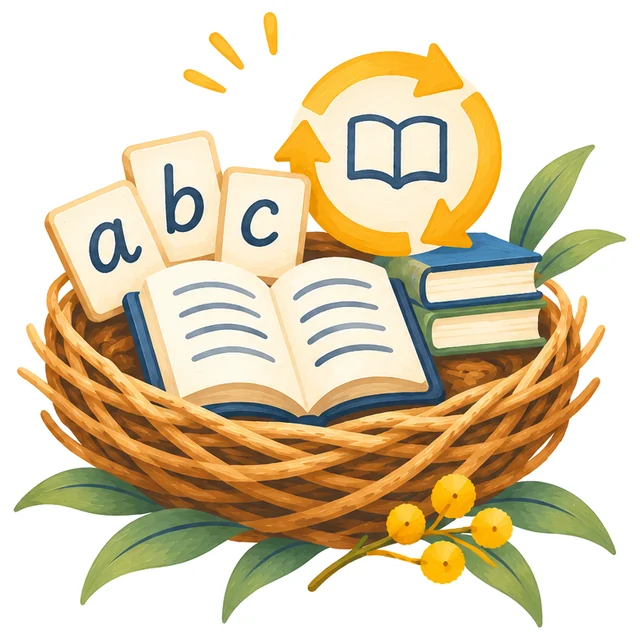
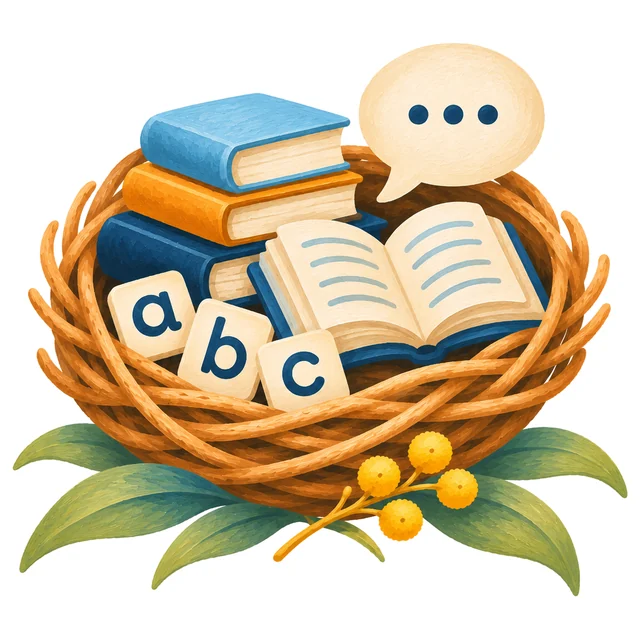
Add the Structured literacy and Numeracy nests
Claude-Session: https://claude.ai/code/session_01Rrumrk6oJAHgL39e83poFG

diff --git a/library.html b/library.html
@@ -70,7 +70,7 @@
 </nav>
 
 <main id="main-content" tabindex="-1">
-<section class="page-hero lib-hero"><div class="container page-hero-inner"><div class="page-hero-text lib-hero-text"><p class="hero-tagline">A curated collection, free for teachers and leaders</p><h1>The Knowledge Nest Library</h1><p class="page-hero-lead">Great professional learning resources are scattered all over the internet. This library gathers the best of other people's work in one place, sorted by topic, so you can spend your time learning instead of searching.</p><form class="lib-search" role="search" id="libSearch" action="library.html" method="get"><label for="q" class="sr-only">Search the library</label><input type="search" id="q" name="q" placeholder="Search by topic, practice or person, e.g. hinge questions" autocomplete="off"><button type="submit" class="btn btn-primary">Search</button></form><p class="page-hero-jump lib-popular"><span>Popular:</span><a href="library-explicit-instruction.html">Explicit instruction</a><a href="library-early-reading.html">Early reading</a><a href="library-writing.html">Writing</a><a href="library-instructional-coaching-and-professional-learning.html">Instructional coaching and professional learning</a><a href="library-implementation.html">Implementation</a><a href="library-checking-for-understanding-and-responsive-teaching.html">Checking for understanding and responsive teaching</a></p></div></div></section><section class="section lib-results-section" id="results" hidden><div class="container"><h2 id="resultsHeading" tabindex="-1">Search results</h2><p class="lib-results-note" id="resultsNote"></p><div id="resultsList"></div><p><button type="button" class="btn btn-primary btn-sm" id="clearSearch">Clear search</button></p></div></section><section class="section" id="types"><div class="container"><div class="section-header"><p class="kn-eyebrow">536 resources, all free</p><h2>Browse the library</h2><p>Know how you want to learn today? Pick a shelf.</p></div><div class="kn-tiles"><a href="library-watch.html" class="kn-tile kn-tile-watch kn-tile-pic"><span class="kn-tile-art"><img class="kn-tile-illo" src="assets/illo/watch.webp" alt="" width="240" height="240" loading="lazy" decoding="async"></span><span class="kn-tile-body"><span class="kn-tile-title">Watch</span><span class="kn-tile-text">Short classroom footage showing practice in action.</span><span class="kn-tile-cta">174 videos <span aria-hidden="true">&rarr;</span></span></span></a><a href="library-learn.html" class="kn-tile kn-tile-learn kn-tile-pic"><span class="kn-tile-art"><img class="kn-tile-illo" src="assets/illo/learn.webp" alt="" width="240" height="240" loading="lazy" decoding="async"></span><span class="kn-tile-body"><span class="kn-tile-title">Learn</span><span class="kn-tile-text">Webinars and longer sessions to sit down with, alone or as a staff.</span><span class="kn-tile-cta">6 sessions <span aria-hidden="true">&rarr;</span></span></span></a><a href="library-listen.html" class="kn-tile kn-tile-listen kn-tile-pic"><span class="kn-tile-art"><img class="kn-tile-illo" src="assets/illo/listen.webp" alt="" width="240" height="240" loading="lazy" decoding="async"></span><span class="kn-tile-body"><span class="kn-tile-title">Listen</span><span class="kn-tile-text">Must-listen shows, and episodes sorted by category.</span><span class="kn-tile-cta">177 episodes <span aria-hidden="true">&rarr;</span></span></span></a><a href="library-read.html" class="kn-tile kn-tile-read kn-tile-pic"><span class="kn-tile-art"><img class="kn-tile-illo" src="assets/illo/read.webp" alt="" width="240" height="240" loading="lazy" decoding="async"></span><span class="kn-tile-body"><span class="kn-tile-title">Read</span><span class="kn-tile-text">Short reads, practice guides and Substacks worth following.</span><span class="kn-tile-cta">76 articles and guides <span aria-hidden="true">&rarr;</span></span></span></a><a href="library-research.html" class="kn-tile kn-tile-research kn-tile-pic"><span class="kn-tile-art"><img class="kn-tile-illo" src="assets/illo/research.webp" alt="" width="240" height="240" loading="lazy" decoding="async"></span><span class="kn-tile-body"><span class="kn-tile-title">Research</span><span class="kn-tile-text">Foundational papers, reviews and meta-analyses.</span><span class="kn-tile-cta">50 papers and reviews <span aria-hidden="true">&rarr;</span></span></span></a><a href="library-voices.html" class="kn-tile kn-tile-voice kn-tile-pic"><span class="kn-tile-art"><img class="kn-tile-illo" src="assets/illo/voice.webp" alt="" width="240" height="240" loading="lazy" decoding="async"></span><span class="kn-tile-body"><span class="kn-tile-title">Voices</span><span class="kn-tile-text">The researchers, teachers and writers worth your time.</span><span class="kn-tile-cta">39 people to follow <span aria-hidden="true">&rarr;</span></span></span></a><a href="library-curriculum.html" class="kn-tile kn-tile-curriculum kn-tile-pic"><span class="kn-tile-art"><img class="kn-tile-illo" src="assets/illo/curriculum.webp" alt="" width="240" height="240" loading="lazy" decoding="async"></span><span class="kn-tile-body"><span class="kn-tile-title">Free curriculum</span><span class="kn-tile-text">Openly available lesson materials, scope and sequences.</span><span class="kn-tile-cta">14 collections <span aria-hidden="true">&rarr;</span></span></span></a><a href="library.html#areas" class="kn-tile kn-tile-areas kn-tile-pic"><span class="kn-tile-art"><img class="kn-tile-illo" src="assets/illo/areas.webp" alt="" width="240" height="240" loading="lazy" decoding="async"></span><span class="kn-tile-body"><span class="kn-tile-title">By area of practice</span><span class="kn-tile-text">Everything on one topic, from phonics to change management.</span><span class="kn-tile-cta">24 areas <span aria-hidden="true">&rarr;</span></span></span></a></div></div></section><section class="section section-tint" id="start"><div class="container"><div class="section-header section-header-illo"><img class="section-illo" src="assets/illo/start.webp" alt="" width="200" height="200" loading="lazy" decoding="async"><div><p class="kn-eyebrow">Not sure where to begin?</p><h2>Start here</h2><p>Five starting points for a school's professional learning journey.</p></div></div><div class="lib-starts"><article class="lib-start"><p class="lib-start-n" aria-hidden="true">01</p><h3>Change management and implementation</h3><p>Whatever you want to improve, the first questions are the same: where to start, which goals to set, and how to lead people through the change.</p><p class="lib-start-label">Three to begin with</p><ul><li><span class="lib-type lib-type-research">Research</span> <a href="https://educationendowmentfoundation.org.uk/tools/guidance-reports/a-schools-guide-to-implementation" target="_blank" rel="noopener">A School&#x27;s Guide to Implementation<span class="sr-only"> (opens in a new tab)</span></a></li><li><span class="lib-type lib-type-listen">Listen</span> <a href="https://www.ollielovell.com/jonathansharples/" target="_blank" rel="noopener">097 Implementation<span class="sr-only"> (opens in a new tab)</span></a></li><li><span class="lib-type lib-type-listen">Listen</span> <a href="https://www.ollielovell.com/errr/vivianerobinson/" target="_blank" rel="noopener">028 Reducing Change to Increase Improvement<span class="sr-only"> (opens in a new tab)</span></a></li></ul><p class="lib-start-label">See everything on</p><p class="lib-topics"><a href="library-implementation.html">Implementation</a><a href="library-change-management.html">Change management</a></p></article><article class="lib-start"><p class="lib-start-n" aria-hidden="true">02</p><h3>Explicit instruction</h3><p>What a well-built lesson looks like, from the first explanation to independent practice, with every student taking part.</p><p class="lib-start-label">Three to begin with</p><ul><li><span class="lib-type lib-type-read">Read</span> <a href="https://www.edresearch.edu.au/topics/explicit-instruction" target="_blank" rel="noopener">Explicit instruction: topic page<span class="sr-only"> (opens in a new tab)</span></a></li><li><span class="lib-type lib-type-listen">Listen</span> <a href="https://www.ollielovell.com/errr/anitaarcher-orig/" target="_blank" rel="noopener">060 Explicit Instruction<span class="sr-only"> (opens in a new tab)</span></a></li><li><span class="lib-type lib-type-watch">Watch</span> <a href="https://www.edresearch.edu.au/guides-resources/videos/teach-explicitly-primary-and-secondary" target="_blank" rel="noopener">Teach explicitly: Primary and secondary<span class="sr-only"> (opens in a new tab)</span></a></li></ul><p class="lib-start-label">See everything on</p><p class="lib-topics"><a href="library-explicit-instruction.html">Explicit instruction</a><a href="library-checking-for-understanding-and-responsive-teaching.html">Checking for understanding and responsive teaching</a><a href="library-participation-and-opportunities-to-respond.html">Participation and opportunities to respond</a></p></article><article class="lib-start"><p class="lib-start-n" aria-hidden="true">03</p><h3>Structured literacy</h3><p>Phonics and fluency, comprehension and vocabulary, spelling and writing, taught systematically from Foundation to Year 6.</p><p class="lib-start-label">Three to begin with</p><ul><li><span class="lib-type lib-type-watch">Watch</span> <a href="https://readinguniverse.org/article/explore-teaching-topics/word-recognition/phonics/how-to-teach-a-phonics-lesson" target="_blank" rel="noopener">How to Teach a Phonics Lesson (video series)<span class="sr-only"> (opens in a new tab)</span></a></li><li><span class="lib-type lib-type-listen">Listen</span> <a href="https://www.buzzsprout.com/1987785/episodes/18632830-s7-e2-the-top-5-ways-to-ensure-reading-success-in-years-3-to-6" target="_blank" rel="noopener">S7 E2 The Top 5 Ways to Ensure Reading Success in Years 3 to 6<span class="sr-only"> (opens in a new tab)</span></a></li><li><span class="lib-type lib-type-listen">Listen</span> <a href="https://www.ollielovell.com/errr/judithhochman/" target="_blank" rel="noopener">029 How to Teach Students to Write<span class="sr-only"> (opens in a new tab)</span></a></li></ul><p class="lib-start-label">See everything on</p><p class="lib-topics"><a href="library-early-reading.html">Early reading</a><a href="library-comprehension-vocabulary-and-text-study.html">Comprehension, vocabulary and text study</a><a href="library-spelling-morphology-and-handwriting.html">Spelling, morphology and handwriting</a><a href="library-writing.html">Writing</a></p></article><article class="lib-start"><p class="lib-start-n" aria-hidden="true">04</p><h3>Multi-tiered systems of support and inclusion</h3><p>How strong whole-class teaching, early screening and targeted intervention fit together so every student gets the right support.</p><p class="lib-start-label">Three to begin with</p><ul><li><span class="lib-type lib-type-watch">Watch</span> <a href="https://www.edresearch.edu.au/guides-resources/videos/leading-mtss" target="_blank" rel="noopener">Leading MTSS<span class="sr-only"> (opens in a new tab)</span></a></li><li><span class="lib-type lib-type-listen">Listen</span> <a href="https://knowledgeforteachers.podbean.com/e/6-common-mistakes-schools-make-when-implementing-mtss-with-dr-sarah-brown-and-dr-stephanie-stollar/" target="_blank" rel="noopener">S04E10 Six common mistakes implementing MTSS<span class="sr-only"> (opens in a new tab)</span></a></li><li><span class="lib-type lib-type-listen">Listen</span> <a href="https://www.buzzsprout.com/1987785/episodes/17122731-s5-e17-mtss-for-reading-with-stephanie-stollar" target="_blank" rel="noopener">S5 E17 MTSS for Reading<span class="sr-only"> (opens in a new tab)</span></a></li></ul><p class="lib-start-label">See everything on</p><p class="lib-topics"><a href="library-tiered-support-and-inclusion.html">Tiered support and inclusion</a></p></article><article class="lib-start"><p class="lib-start-n" aria-hidden="true">05</p><h3>Assessment and reporting</h3><p>Which assessments answer which questions, and how to use what they tell you without drowning in data.</p><p class="lib-start-label">Three to begin with</p><ul><li><span class="lib-type lib-type-listen">Listen</span> <a href="https://www.ollielovell.com/errr/daisychristodoulou/" target="_blank" rel="noopener">027 Assessment<span class="sr-only"> (opens in a new tab)</span></a></li><li><span class="lib-type lib-type-listen">Listen</span> <a href="https://knowledgeforteachers.podbean.com/e/s03e04-dr-matthew-burns-on-effective-assessment-using-data-to-drive-reading-maths-intervention/" target="_blank" rel="noopener">S03E04 Effective Assessment: Using Data to Drive Reading and Maths Intervention<span class="sr-only"> (opens in a new tab)</span></a></li><li><span class="lib-type lib-type-read">Read</span> <a href="https://www.aft.org/sites/default/files/ae_summer2018_barton.pdf" target="_blank" rel="noopener">On Formative Assessment in Math: How Diagnostic Questions Can Help<span class="sr-only"> (opens in a new tab)</span></a></li></ul><p class="lib-start-label">See everything on</p><p class="lib-topics"><a href="library-assessment-and-data.html">Assessment and data</a><a href="library-checking-for-understanding-and-responsive-teaching.html">Checking for understanding and responsive teaching</a></p></article></div></div></section><section class="section" id="areas"><div class="container"><div class="section-header"><h2>Browse by area</h2><p>Every area gathers videos, podcasts, reading and research in one place.</p></div><div class="lib-domains"><div class="lib-domain lib-domain-pic"><img class="lib-domain-illo" src="assets/illo/domain-how-learning-works.webp" alt="" width="200" height="200" loading="lazy" decoding="async"><h3>How learning works</h3><ul><li><a href="library-how-learning-happens.html">How learning happens</a> <span class="lib-count">37</span></li><li><a href="library-motivation-self-efficacy-and-metacognition.html">Motivation, self-efficacy and metacognition</a> <span class="lib-count">6</span></li></ul></div><div class="lib-domain lib-domain-pic"><img class="lib-domain-illo" src="assets/illo/domain-teaching-practice.webp" alt="" width="200" height="200" loading="lazy" decoding="async"><h3>Teaching practice</h3><ul><li><a href="library-explicit-instruction.html">Explicit instruction</a> <span class="lib-count">92</span></li><li><a href="library-retrieval-spacing-and-review.html">Retrieval, spacing and review</a> <span class="lib-count">30</span></li><li><a href="library-checking-for-understanding-and-responsive-teaching.html">Checking for understanding and responsive teaching</a> <span class="lib-count">51</span></li><li><a href="library-classroom-culture-routines-and-attention.html">Classroom culture, routines and attention</a> <span class="lib-count">55</span></li><li><a href="library-participation-and-opportunities-to-respond.html">Participation and opportunities to respond</a> <span class="lib-count">32</span></li><li><a href="library-feedback-and-practice.html">Feedback and practice</a> <span class="lib-count">19</span></li></ul></div><div class="lib-domain lib-domain-pic"><img class="lib-domain-illo" src="assets/illo/domain-structured-literacy.webp" alt="" width="200" height="200" loading="lazy" decoding="async"><h3>Structured literacy</h3><ul><li><a href="library-early-reading.html">Early reading: phonics and fluency</a> <span class="lib-count">45</span></li><li><a href="library-comprehension-vocabulary-and-text-study.html">Comprehension, vocabulary and text study</a> <span class="lib-count">45</span></li><li><a href="library-spelling-morphology-and-handwriting.html">Spelling, morphology and handwriting</a> <span class="lib-count">18</span></li><li><a href="library-writing.html">Writing</a> <span class="lib-count">52</span></li><li><a href="library-oral-language-and-oracy.html">Oral language and oracy</a> <span class="lib-count">12</span></li></ul></div><div class="lib-domain"><h3>Numeracy</h3><ul><li><a href="library-mathematics.html">Mathematics</a> <span class="lib-count">50</span></li></ul></div><div class="lib-domain"><h3>Knowledge-rich curriculum</h3><ul><li><a href="library-knowledge-rich-curriculum-and-coherence.html">Knowledge-rich curriculum and coherence</a> <span class="lib-count">22</span></li></ul></div><div class="lib-domain lib-domain-pic"><img class="lib-domain-illo" src="assets/illo/domain-mtss-and-assessment.webp" alt="" width="200" height="200" loading="lazy" decoding="async"><h3>MTSS and assessment</h3><ul><li><a href="library-assessment-and-data.html">Assessment and data</a> <span class="lib-count">10</span></li><li><a href="library-tiered-support-and-inclusion.html">Tiered support and inclusion</a> <span class="lib-count">19</span></li></ul></div><div class="lib-domain lib-domain-pic"><img class="lib-domain-illo" src="assets/illo/domain-coaching-and-professional-learning.webp" alt="" width="200" height="200" loading="lazy" decoding="async"><h3>Coaching and professional learning</h3><ul><li><a href="library-instructional-coaching-and-professional-learning.html">Instructional coaching and professional learning</a> <span class="lib-count">44</span></li></ul></div><div class="lib-domain lib-domain-pic"><img class="lib-domain-illo" src="assets/illo/domain-leadership-and-culture.webp" alt="" width="200" height="200" loading="lazy" decoding="async"><h3>Leadership and culture</h3><ul><li><a href="library-instructional-leadership.html">Instructional leadership</a> <span class="lib-count">28</span></li><li><a href="library-school-culture-trust-and-behaviour.html">School culture, trust and behaviour</a> <span class="lib-count">16</span></li><li><a href="library-teams-middle-leadership-and-professional-culture.html">Teams, middle leadership and professional culture</a> <span class="lib-count">3</span></li></ul></div><div class="lib-domain lib-domain-pic"><img class="lib-domain-illo" src="assets/illo/domain-implementation-and-change.webp" alt="" width="200" height="200" loading="lazy" decoding="async"><h3>Implementation and change</h3><ul><li><a href="library-implementation.html">Implementation</a> <span class="lib-count">30</span></li><li><a href="library-change-management.html">Change management</a> <span class="lib-count">6</span></li></ul></div><div class="lib-domain lib-domain-pic"><img class="lib-domain-illo" src="assets/illo/domain-research-and-evidence.webp" alt="" width="200" height="200" loading="lazy" decoding="async"><h3>Research and evidence</h3><ul><li><a href="library-evidence-myths-and-debates.html">Evidence, myths and debates</a> <span class="lib-count">23</span></li></ul></div></div></div></section><section class="section section-tint"><div class="container"><div class="lib-band"><div class="lib-band-text"><p class="lib-eyebrow">For Victorian schools</p><h2>Browse by the Victorian Teaching and Learning Model 2.0</h2><p>Podcast episodes matched to each element of learning and teaching, and to current Victorian priorities.</p><p><a href="library-vtlm.html" class="btn btn-accent">Open the VTLM 2.0 view</a></p></div><div class="lib-band-chips"><span>Attention, focus and regulation</span><span>Knowledge and memory</span><span>Retention and recall</span><span>Mastery and application</span><span>Planning</span><span>Enabling learning</span><span>Explicit teaching: overview</span><span>Explicit teaching: focus the learning</span><span>Explicit teaching: explicit explanation and modelling</span><span>Explicit teaching: scaffold practice</span><span>Explicit teaching: monitor progress</span><span>Supported application</span></div></div><p class="lib-own">Looking for Jo's own articles and downloadable guides? <a href="resources.html">Find them here</a>.</p></div></section><section class="section lib-about"><div class="container"><div class="lib-panels"><div class="lib-panel"><p class="lib-eyebrow">About this collection</p><h2>Other people's brilliant work, gathered in one place</h2><p>I'm Jo Griffin. I was spending a long time trawling the internet to find resources that support teachers' professional learning, and thought it might help others if they were all in one place, sorted into categories.</p><p>This is a collection, not my own work. Every resource belongs to the people who created it. Each entry names its creator and links straight to the original, and nothing is copied or hosted here.</p><p class="lib-small">Is your work listed here? If you would like it described differently or removed, just <a href="mailto:jo@knowledgenest.com.au?subject=Library%20listing">let me know</a>.</p></div><div class="lib-panel lib-panel-grow"><img class="lib-panel-illo" src="assets/illo/suggest.webp" alt="" width="220" height="220" loading="lazy" decoding="async"><p class="lib-eyebrow">Help it grow</p><h2>Know something that belongs here?</h2><p>This library is built by sharing. If there is a video, podcast, article or piece of research that has helped you or your team, send a quick email with the link and it can be added for everyone.</p><p><a href="mailto:jo@knowledgenest.com.au?subject=Library%20suggestion" class="btn btn-accent">Email a suggestion</a></p></div></div></div></section><script src="library/search.js?v=2" defer></script>
+<section class="page-hero lib-hero"><div class="container page-hero-inner"><div class="page-hero-text lib-hero-text"><p class="hero-tagline">A curated collection, free for teachers and leaders</p><h1>The Knowledge Nest Library</h1><p class="page-hero-lead">Great professional learning resources are scattered all over the internet. This library gathers the best of other people's work in one place, sorted by topic, so you can spend your time learning instead of searching.</p><form class="lib-search" role="search" id="libSearch" action="library.html" method="get"><label for="q" class="sr-only">Search the library</label><input type="search" id="q" name="q" placeholder="Search by topic, practice or person, e.g. hinge questions" autocomplete="off"><button type="submit" class="btn btn-primary">Search</button></form><p class="page-hero-jump lib-popular"><span>Popular:</span><a href="library-explicit-instruction.html">Explicit instruction</a><a href="library-early-reading.html">Early reading</a><a href="library-writing.html">Writing</a><a href="library-instructional-coaching-and-professional-learning.html">Instructional coaching and professional learning</a><a href="library-implementation.html">Implementation</a><a href="library-checking-for-understanding-and-responsive-teaching.html">Checking for understanding and responsive teaching</a></p></div></div></section><section class="section lib-results-section" id="results" hidden><div class="container"><h2 id="resultsHeading" tabindex="-1">Search results</h2><p class="lib-results-note" id="resultsNote"></p><div id="resultsList"></div><p><button type="button" class="btn btn-primary btn-sm" id="clearSearch">Clear search</button></p></div></section><section class="section" id="types"><div class="container"><div class="section-header"><p class="kn-eyebrow">536 resources, all free</p><h2>Browse the library</h2><p>Know how you want to learn today? Pick a shelf.</p></div><div class="kn-tiles"><a href="library-watch.html" class="kn-tile kn-tile-watch kn-tile-pic"><span class="kn-tile-art"><img class="kn-tile-illo" src="assets/illo/watch.webp" alt="" width="240" height="240" loading="lazy" decoding="async"></span><span class="kn-tile-body"><span class="kn-tile-title">Watch</span><span class="kn-tile-text">Short classroom footage showing practice in action.</span><span class="kn-tile-cta">174 videos <span aria-hidden="true">&rarr;</span></span></span></a><a href="library-learn.html" class="kn-tile kn-tile-learn kn-tile-pic"><span class="kn-tile-art"><img class="kn-tile-illo" src="assets/illo/learn.webp" alt="" width="240" height="240" loading="lazy" decoding="async"></span><span class="kn-tile-body"><span class="kn-tile-title">Learn</span><span class="kn-tile-text">Webinars and longer sessions to sit down with, alone or as a staff.</span><span class="kn-tile-cta">6 sessions <span aria-hidden="true">&rarr;</span></span></span></a><a href="library-listen.html" class="kn-tile kn-tile-listen kn-tile-pic"><span class="kn-tile-art"><img class="kn-tile-illo" src="assets/illo/listen.webp" alt="" width="240" height="240" loading="lazy" decoding="async"></span><span class="kn-tile-body"><span class="kn-tile-title">Listen</span><span class="kn-tile-text">Must-listen shows, and episodes sorted by category.</span><span class="kn-tile-cta">177 episodes <span aria-hidden="true">&rarr;</span></span></span></a><a href="library-read.html" class="kn-tile kn-tile-read kn-tile-pic"><span class="kn-tile-art"><img class="kn-tile-illo" src="assets/illo/read.webp" alt="" width="240" height="240" loading="lazy" decoding="async"></span><span class="kn-tile-body"><span class="kn-tile-title">Read</span><span class="kn-tile-text">Short reads, practice guides and Substacks worth following.</span><span class="kn-tile-cta">76 articles and guides <span aria-hidden="true">&rarr;</span></span></span></a><a href="library-research.html" class="kn-tile kn-tile-research kn-tile-pic"><span class="kn-tile-art"><img class="kn-tile-illo" src="assets/illo/research.webp" alt="" width="240" height="240" loading="lazy" decoding="async"></span><span class="kn-tile-body"><span class="kn-tile-title">Research</span><span class="kn-tile-text">Foundational papers, reviews and meta-analyses.</span><span class="kn-tile-cta">50 papers and reviews <span aria-hidden="true">&rarr;</span></span></span></a><a href="library-voices.html" class="kn-tile kn-tile-voice kn-tile-pic"><span class="kn-tile-art"><img class="kn-tile-illo" src="assets/illo/voice.webp" alt="" width="240" height="240" loading="lazy" decoding="async"></span><span class="kn-tile-body"><span class="kn-tile-title">Voices</span><span class="kn-tile-text">The researchers, teachers and writers worth your time.</span><span class="kn-tile-cta">39 people to follow <span aria-hidden="true">&rarr;</span></span></span></a><a href="library-curriculum.html" class="kn-tile kn-tile-curriculum kn-tile-pic"><span class="kn-tile-art"><img class="kn-tile-illo" src="assets/illo/curriculum.webp" alt="" width="240" height="240" loading="lazy" decoding="async"></span><span class="kn-tile-body"><span class="kn-tile-title">Free curriculum</span><span class="kn-tile-text">Openly available lesson materials, scope and sequences.</span><span class="kn-tile-cta">14 collections <span aria-hidden="true">&rarr;</span></span></span></a><a href="library.html#areas" class="kn-tile kn-tile-areas kn-tile-pic"><span class="kn-tile-art"><img class="kn-tile-illo" src="assets/illo/areas.webp" alt="" width="240" height="240" loading="lazy" decoding="async"></span><span class="kn-tile-body"><span class="kn-tile-title">By area of practice</span><span class="kn-tile-text">Everything on one topic, from phonics to change management.</span><span class="kn-tile-cta">24 areas <span aria-hidden="true">&rarr;</span></span></span></a></div></div></section><section class="section section-tint" id="start"><div class="container"><div class="section-header section-header-illo"><img class="section-illo" src="assets/illo/start.webp" alt="" width="200" height="200" loading="lazy" decoding="async"><div><p class="kn-eyebrow">Not sure where to begin?</p><h2>Start here</h2><p>Five starting points for a school's professional learning journey.</p></div></div><div class="lib-starts"><article class="lib-start"><p class="lib-start-n" aria-hidden="true">01</p><h3>Change management and implementation</h3><p>Whatever you want to improve, the first questions are the same: where to start, which goals to set, and how to lead people through the change.</p><p class="lib-start-label">Three to begin with</p><ul><li><span class="lib-type lib-type-research">Research</span> <a href="https://educationendowmentfoundation.org.uk/tools/guidance-reports/a-schools-guide-to-implementation" target="_blank" rel="noopener">A School&#x27;s Guide to Implementation<span class="sr-only"> (opens in a new tab)</span></a></li><li><span class="lib-type lib-type-listen">Listen</span> <a href="https://www.ollielovell.com/jonathansharples/" target="_blank" rel="noopener">097 Implementation<span class="sr-only"> (opens in a new tab)</span></a></li><li><span class="lib-type lib-type-listen">Listen</span> <a href="https://www.ollielovell.com/errr/vivianerobinson/" target="_blank" rel="noopener">028 Reducing Change to Increase Improvement<span class="sr-only"> (opens in a new tab)</span></a></li></ul><p class="lib-start-label">See everything on</p><p class="lib-topics"><a href="library-implementation.html">Implementation</a><a href="library-change-management.html">Change management</a></p></article><article class="lib-start"><p class="lib-start-n" aria-hidden="true">02</p><h3>Explicit instruction</h3><p>What a well-built lesson looks like, from the first explanation to independent practice, with every student taking part.</p><p class="lib-start-label">Three to begin with</p><ul><li><span class="lib-type lib-type-read">Read</span> <a href="https://www.edresearch.edu.au/topics/explicit-instruction" target="_blank" rel="noopener">Explicit instruction: topic page<span class="sr-only"> (opens in a new tab)</span></a></li><li><span class="lib-type lib-type-listen">Listen</span> <a href="https://www.ollielovell.com/errr/anitaarcher-orig/" target="_blank" rel="noopener">060 Explicit Instruction<span class="sr-only"> (opens in a new tab)</span></a></li><li><span class="lib-type lib-type-watch">Watch</span> <a href="https://www.edresearch.edu.au/guides-resources/videos/teach-explicitly-primary-and-secondary" target="_blank" rel="noopener">Teach explicitly: Primary and secondary<span class="sr-only"> (opens in a new tab)</span></a></li></ul><p class="lib-start-label">See everything on</p><p class="lib-topics"><a href="library-explicit-instruction.html">Explicit instruction</a><a href="library-checking-for-understanding-and-responsive-teaching.html">Checking for understanding and responsive teaching</a><a href="library-participation-and-opportunities-to-respond.html">Participation and opportunities to respond</a></p></article><article class="lib-start"><p class="lib-start-n" aria-hidden="true">03</p><h3>Structured literacy</h3><p>Phonics and fluency, comprehension and vocabulary, spelling and writing, taught systematically from Foundation to Year 6.</p><p class="lib-start-label">Three to begin with</p><ul><li><span class="lib-type lib-type-watch">Watch</span> <a href="https://readinguniverse.org/article/explore-teaching-topics/word-recognition/phonics/how-to-teach-a-phonics-lesson" target="_blank" rel="noopener">How to Teach a Phonics Lesson (video series)<span class="sr-only"> (opens in a new tab)</span></a></li><li><span class="lib-type lib-type-listen">Listen</span> <a href="https://www.buzzsprout.com/1987785/episodes/18632830-s7-e2-the-top-5-ways-to-ensure-reading-success-in-years-3-to-6" target="_blank" rel="noopener">S7 E2 The Top 5 Ways to Ensure Reading Success in Years 3 to 6<span class="sr-only"> (opens in a new tab)</span></a></li><li><span class="lib-type lib-type-listen">Listen</span> <a href="https://www.ollielovell.com/errr/judithhochman/" target="_blank" rel="noopener">029 How to Teach Students to Write<span class="sr-only"> (opens in a new tab)</span></a></li></ul><p class="lib-start-label">See everything on</p><p class="lib-topics"><a href="library-early-reading.html">Early reading</a><a href="library-comprehension-vocabulary-and-text-study.html">Comprehension, vocabulary and text study</a><a href="library-spelling-morphology-and-handwriting.html">Spelling, morphology and handwriting</a><a href="library-writing.html">Writing</a></p></article><article class="lib-start"><p class="lib-start-n" aria-hidden="true">04</p><h3>Multi-tiered systems of support and inclusion</h3><p>How strong whole-class teaching, early screening and targeted intervention fit together so every student gets the right support.</p><p class="lib-start-label">Three to begin with</p><ul><li><span class="lib-type lib-type-watch">Watch</span> <a href="https://www.edresearch.edu.au/guides-resources/videos/leading-mtss" target="_blank" rel="noopener">Leading MTSS<span class="sr-only"> (opens in a new tab)</span></a></li><li><span class="lib-type lib-type-listen">Listen</span> <a href="https://knowledgeforteachers.podbean.com/e/6-common-mistakes-schools-make-when-implementing-mtss-with-dr-sarah-brown-and-dr-stephanie-stollar/" target="_blank" rel="noopener">S04E10 Six common mistakes implementing MTSS<span class="sr-only"> (opens in a new tab)</span></a></li><li><span class="lib-type lib-type-listen">Listen</span> <a href="https://www.buzzsprout.com/1987785/episodes/17122731-s5-e17-mtss-for-reading-with-stephanie-stollar" target="_blank" rel="noopener">S5 E17 MTSS for Reading<span class="sr-only"> (opens in a new tab)</span></a></li></ul><p class="lib-start-label">See everything on</p><p class="lib-topics"><a href="library-tiered-support-and-inclusion.html">Tiered support and inclusion</a></p></article><article class="lib-start"><p class="lib-start-n" aria-hidden="true">05</p><h3>Assessment and reporting</h3><p>Which assessments answer which questions, and how to use what they tell you without drowning in data.</p><p class="lib-start-label">Three to begin with</p><ul><li><span class="lib-type lib-type-listen">Listen</span> <a href="https://www.ollielovell.com/errr/daisychristodoulou/" target="_blank" rel="noopener">027 Assessment<span class="sr-only"> (opens in a new tab)</span></a></li><li><span class="lib-type lib-type-listen">Listen</span> <a href="https://knowledgeforteachers.podbean.com/e/s03e04-dr-matthew-burns-on-effective-assessment-using-data-to-drive-reading-maths-intervention/" target="_blank" rel="noopener">S03E04 Effective Assessment: Using Data to Drive Reading and Maths Intervention<span class="sr-only"> (opens in a new tab)</span></a></li><li><span class="lib-type lib-type-read">Read</span> <a href="https://www.aft.org/sites/default/files/ae_summer2018_barton.pdf" target="_blank" rel="noopener">On Formative Assessment in Math: How Diagnostic Questions Can Help<span class="sr-only"> (opens in a new tab)</span></a></li></ul><p class="lib-start-label">See everything on</p><p class="lib-topics"><a href="library-assessment-and-data.html">Assessment and data</a><a href="library-checking-for-understanding-and-responsive-teaching.html">Checking for understanding and responsive teaching</a></p></article></div></div></section><section class="section" id="areas"><div class="container"><div class="section-header"><h2>Browse by area</h2><p>Every area gathers videos, podcasts, reading and research in one place.</p></div><div class="lib-domains"><div class="lib-domain lib-domain-pic"><img class="lib-domain-illo" src="assets/illo/domain-how-learning-works.webp" alt="" width="200" height="200" loading="lazy" decoding="async"><h3>How learning works</h3><ul><li><a href="library-how-learning-happens.html">How learning happens</a> <span class="lib-count">37</span></li><li><a href="library-motivation-self-efficacy-and-metacognition.html">Motivation, self-efficacy and metacognition</a> <span class="lib-count">6</span></li></ul></div><div class="lib-domain lib-domain-pic"><img class="lib-domain-illo" src="assets/illo/domain-teaching-practice.webp" alt="" width="200" height="200" loading="lazy" decoding="async"><h3>Teaching practice</h3><ul><li><a href="library-explicit-instruction.html">Explicit instruction</a> <span class="lib-count">92</span></li><li><a href="library-retrieval-spacing-and-review.html">Retrieval, spacing and review</a> <span class="lib-count">30</span></li><li><a href="library-checking-for-understanding-and-responsive-teaching.html">Checking for understanding and responsive teaching</a> <span class="lib-count">51</span></li><li><a href="library-classroom-culture-routines-and-attention.html">Classroom culture, routines and attention</a> <span class="lib-count">55</span></li><li><a href="library-participation-and-opportunities-to-respond.html">Participation and opportunities to respond</a> <span class="lib-count">32</span></li><li><a href="library-feedback-and-practice.html">Feedback and practice</a> <span class="lib-count">19</span></li></ul></div><div class="lib-domain lib-domain-pic"><img class="lib-domain-illo" src="assets/illo/domain-structured-literacy.webp" alt="" width="200" height="200" loading="lazy" decoding="async"><h3>Structured literacy</h3><ul><li><a href="library-early-reading.html">Early reading: phonics and fluency</a> <span class="lib-count">45</span></li><li><a href="library-comprehension-vocabulary-and-text-study.html">Comprehension, vocabulary and text study</a> <span class="lib-count">45</span></li><li><a href="library-spelling-morphology-and-handwriting.html">Spelling, morphology and handwriting</a> <span class="lib-count">18</span></li><li><a href="library-writing.html">Writing</a> <span class="lib-count">52</span></li><li><a href="library-oral-language-and-oracy.html">Oral language and oracy</a> <span class="lib-count">12</span></li></ul></div><div class="lib-domain lib-domain-pic"><img class="lib-domain-illo" src="assets/illo/domain-numeracy.webp" alt="" width="200" height="200" loading="lazy" decoding="async"><h3>Numeracy</h3><ul><li><a href="library-mathematics.html">Mathematics</a> <span class="lib-count">50</span></li></ul></div><div class="lib-domain"><h3>Knowledge-rich curriculum</h3><ul><li><a href="library-knowledge-rich-curriculum-and-coherence.html">Knowledge-rich curriculum and coherence</a> <span class="lib-count">22</span></li></ul></div><div class="lib-domain lib-domain-pic"><img class="lib-domain-illo" src="assets/illo/domain-mtss-and-assessment.webp" alt="" width="200" height="200" loading="lazy" decoding="async"><h3>MTSS and assessment</h3><ul><li><a href="library-assessment-and-data.html">Assessment and data</a> <span class="lib-count">10</span></li><li><a href="library-tiered-support-and-inclusion.html">Tiered support and inclusion</a> <span class="lib-count">19</span></li></ul></div><div class="lib-domain lib-domain-pic"><img class="lib-domain-illo" src="assets/illo/domain-coaching-and-professional-learning.webp" alt="" width="200" height="200" loading="lazy" decoding="async"><h3>Coaching and professional learning</h3><ul><li><a href="library-instructional-coaching-and-professional-learning.html">Instructional coaching and professional learning</a> <span class="lib-count">44</span></li></ul></div><div class="lib-domain lib-domain-pic"><img class="lib-domain-illo" src="assets/illo/domain-leadership-and-culture.webp" alt="" width="200" height="200" loading="lazy" decoding="async"><h3>Leadership and culture</h3><ul><li><a href="library-instructional-leadership.html">Instructional leadership</a> <span class="lib-count">28</span></li><li><a href="library-school-culture-trust-and-behaviour.html">School culture, trust and behaviour</a> <span class="lib-count">16</span></li><li><a href="library-teams-middle-leadership-and-professional-culture.html">Teams, middle leadership and professional culture</a> <span class="lib-count">3</span></li></ul></div><div class="lib-domain lib-domain-pic"><img class="lib-domain-illo" src="assets/illo/domain-implementation-and-change.webp" alt="" width="200" height="200" loading="lazy" decoding="async"><h3>Implementation and change</h3><ul><li><a href="library-implementation.html">Implementation</a> <span class="lib-count">30</span></li><li><a href="library-change-management.html">Change management</a> <span class="lib-count">6</span></li></ul></div><div class="lib-domain lib-domain-pic"><img class="lib-domain-illo" src="assets/illo/domain-research-and-evidence.webp" alt="" width="200" height="200" loading="lazy" decoding="async"><h3>Research and evidence</h3><ul><li><a href="library-evidence-myths-and-debates.html">Evidence, myths and debates</a> <span class="lib-count">23</span></li></ul></div></div></div></section><section class="section section-tint"><div class="container"><div class="lib-band"><div class="lib-band-text"><p class="lib-eyebrow">For Victorian schools</p><h2>Browse by the Victorian Teaching and Learning Model 2.0</h2><p>Podcast episodes matched to each element of learning and teaching, and to current Victorian priorities.</p><p><a href="library-vtlm.html" class="btn btn-accent">Open the VTLM 2.0 view</a></p></div><div class="lib-band-chips"><span>Attention, focus and regulation</span><span>Knowledge and memory</span><span>Retention and recall</span><span>Mastery and application</span><span>Planning</span><span>Enabling learning</span><span>Explicit teaching: overview</span><span>Explicit teaching: focus the learning</span><span>Explicit teaching: explicit explanation and modelling</span><span>Explicit teaching: scaffold practice</span><span>Explicit teaching: monitor progress</span><span>Supported application</span></div></div><p class="lib-own">Looking for Jo's own articles and downloadable guides? <a href="resources.html">Find them here</a>.</p></div></section><section class="section lib-about"><div class="container"><div class="lib-panels"><div class="lib-panel"><p class="lib-eyebrow">About this collection</p><h2>Other people's brilliant work, gathered in one place</h2><p>I'm Jo Griffin. I was spending a long time trawling the internet to find resources that support teachers' professional learning, and thought it might help others if they were all in one place, sorted into categories.</p><p>This is a collection, not my own work. Every resource belongs to the people who created it. Each entry names its creator and links straight to the original, and nothing is copied or hosted here.</p><p class="lib-small">Is your work listed here? If you would like it described differently or removed, just <a href="mailto:jo@knowledgenest.com.au?subject=Library%20listing">let me know</a>.</p></div><div class="lib-panel lib-panel-grow"><img class="lib-panel-illo" src="assets/illo/suggest.webp" alt="" width="220" height="220" loading="lazy" decoding="async"><p class="lib-eyebrow">Help it grow</p><h2>Know something that belongs here?</h2><p>This library is built by sharing. If there is a video, podcast, article or piece of research that has helped you or your team, send a quick email with the link and it can be added for everyone.</p><p><a href="mailto:jo@knowledgenest.com.au?subject=Library%20suggestion" class="btn btn-accent">Email a suggestion</a></p></div></div></div></section><script src="library/search.js?v=2" defer></script>
 </main>
 
 <!-- Footer -->
